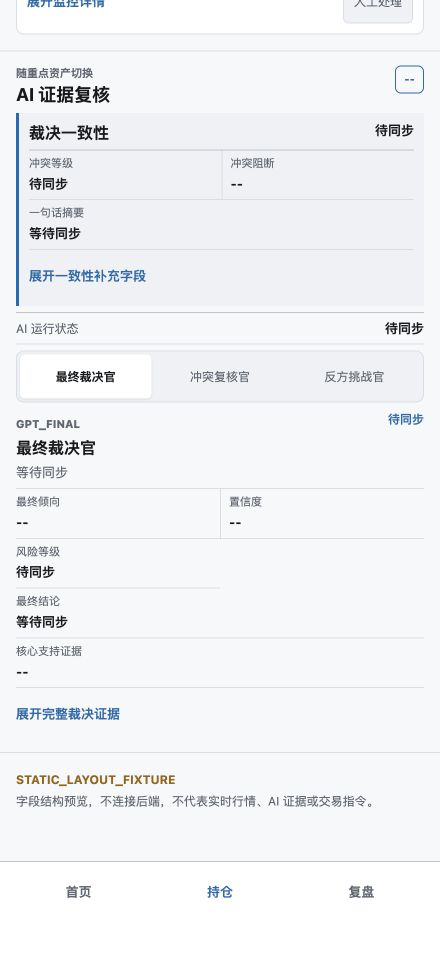
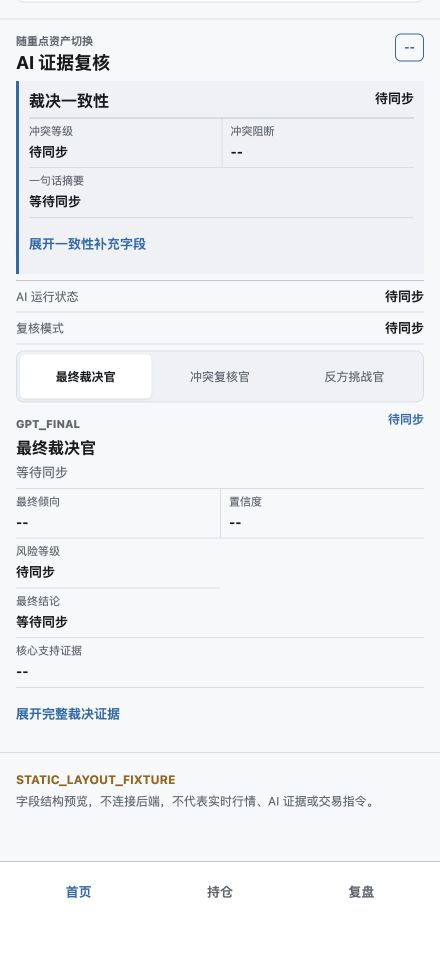
fix(design): close PR 1135 review blockers

diff --git a/docs/design/p3-u2-iphone-home-ia-v2/interaction.js b/docs/design/p3-u2-iphone-home-ia-v2/interaction.js
@@ -31,7 +31,7 @@
 
   let selectedAssetIndex = 0;
   let activeRole = "gpt";
-  const initialPositionMarkup = positionSection ? positionSection.innerHTML : "";
+  let initialPositionMarkup = "";
   const captureUsesSafeEmptyState = params.get("capture") === "1";
 
   const fixtureFallback = (fieldPath) => {
@@ -69,6 +69,15 @@
       textNode.parentElement?.setAttribute("data-field-token", fieldPaths.join(","));
       textNode.nodeValue = source.replace(tokenPattern, (_token, fieldPath) => fixtureFallback(fieldPath));
     });
+  };
+
+  const validateCaptureSafeEmptyState = () => {
+    if (!captureUsesSafeEmptyState || !positionSection) {
+      return;
+    }
+    if (/\{[^{}]+\}/.test(positionSection.textContent || "")) {
+      throw new Error("Capture-mode position safe-empty normalization failed");
+    }
   };
 
   const setPressed = (selector, value, attribute) => {
@@ -256,6 +265,8 @@
     document.body.classList.add("capture-mode");
   }
   applyCaptureSafeEmptyState();
+  validateCaptureSafeEmptyState();
+  initialPositionMarkup = positionSection ? positionSection.innerHTML : "";
   applyDevice(normalized("device", "17pm"));
   applyTheme(normalized("theme", "light"));
   applyTextSize(normalized("text", "standard"));

diff --git a/docs/design/p3-u2-iphone-home-ia-v2/index.html b/docs/design/p3-u2-iphone-home-ia-v2/index.html
@@ -381,6 +381,10 @@
             <span>AI 运行状态</span>
             <strong>{aiDecision.runStatusLabel}</strong>
           </div>
+          <div class="ai-run-state ai-decision-mode">
+            <span>复核模式</span>
+            <strong>{aiDecision.decisionModeLabel}</strong>
+          </div>
 
           <div class="role-tabs" role="tablist" aria-label="AI 角色">
             <button type="button" role="tab" id="role-tab-gpt" aria-selected="true" aria-controls="role-panel-gpt" data-role="gpt">最终裁决官</button>

diff --git a/docs/design/p3-u2-iphone-home-ia-v2/styles.css b/docs/design/p3-u2-iphone-home-ia-v2/styles.css
@@ -787,6 +787,11 @@ details p {
   margin-top: 6px;
 }
 
+.ai-decision-mode {
+  margin-top: 0;
+  border-top: 0;
+}
+
 .role-tabs {
   display: grid;
   grid-template-columns: repeat(3, minmax(0, 1fr));

diff --git a/src/test/java/org/example/trademodel/dashboard/P3U2IPhoneHomePrototypeContractTest.java b/src/test/java/org/example/trademodel/dashboard/P3U2IPhoneHomePrototypeContractTest.java
@@ -1,0 +1,76 @@
+package org.example.trademodel.dashboard;
+
+import org.junit.jupiter.api.Test;
+
+import java.io.IOException;
+import java.nio.file.Files;
+import java.nio.file.Path;
+
+import static org.assertj.core.api.Assertions.assertThat;
+
+class P3U2IPhoneHomePrototypeContractTest {
+
+    private static final Path PROTOTYPE_DIR =
+            Path.of("docs/design/p3-u2-iphone-home-ia-v2");
+
+    @Test
+    void captureModeNormalizesAndValidatesPositionBeforeBaseline() throws IOException {
+        String script = Files.readString(PROTOTYPE_DIR.resolve("interaction.js"));
+
+        int declaration = script.indexOf("let initialPositionMarkup = \"\";");
+        int normalization = script.indexOf("  applyCaptureSafeEmptyState();");
+        int validation = script.indexOf("  validateCaptureSafeEmptyState();");
+        int baseline = script.indexOf(
+                "  initialPositionMarkup = positionSection ? positionSection.innerHTML : \"\";");
+
+        assertThat(declaration).isGreaterThanOrEqualTo(0);
+        assertThat(normalization).isGreaterThan(declaration);
+        assertThat(validation).isGreaterThan(normalization);
+        assertThat(baseline).isGreaterThan(validation);
+        assertThat(script).doesNotContain(
+                "const initialPositionMarkup = positionSection ? positionSection.innerHTML : \"\";");
+    }
+
+    @Test
+    void captureModeProvidesAValidatedFailClosedPositionState() throws IOException {
+        String html = Files.readString(PROTOTYPE_DIR.resolve("index.html"));
+        String script = Files.readString(PROTOTYPE_DIR.resolve("interaction.js"));
+        String positionSection = section(html, "<section class=\"position-section\"", "</section>");
+
+        assertThat(positionSection)
+                .contains("data-position-independent")
+                .contains("{positions[0].symbol}")
+                .contains("{positions[0].entryPrice}");
+        assertThat(script)
+                .contains("const validateCaptureSafeEmptyState = () => {")
+                .contains("positionSection.textContent || \"\"")
+                .contains("Capture-mode position safe-empty normalization failed")
+                .contains("textNode.nodeValue = source.replace(tokenPattern,"
+                        + " (_token, fieldPath) => fixtureFallback(fieldPath));");
+    }
+
+    @Test
+    void aiDecisionModeIsRenderedInTheHeaderWithFailClosedFallback() throws IOException {
+        String html = Files.readString(PROTOTYPE_DIR.resolve("index.html"));
+        String script = Files.readString(PROTOTYPE_DIR.resolve("interaction.js"));
+        String aiHeader = section(html, "<section class=\"ai-section\"", "<div class=\"role-tabs\"");
+
+        assertThat(aiHeader)
+                .contains("<span>AI 运行状态</span>")
+                .contains("{aiDecision.runStatusLabel}")
+                .contains("<span>复核模式</span>")
+                .contains("{aiDecision.decisionModeLabel}");
+        assertThat(script)
+                .contains("status|state|level|label|direction|stance|risk|quality|mode")
+                .contains("return \"待同步\";");
+    }
+
+    private static String section(String source, String startMarker, String endMarker) {
+        int start = source.indexOf(startMarker);
+        int end = source.indexOf(endMarker, start);
+
+        assertThat(start).isGreaterThanOrEqualTo(0);
+        assertThat(end).isGreaterThan(start);
+        return source.substring(start, end);
+    }
+}

diff --git a/docs/design/P3_U2_IPHONE_HOME_IA_V2.md b/docs/design/P3_U2_IPHONE_HOME_IA_V2.md
@@ -241,7 +241,7 @@ each exact binding in `data-field-token`; it does not use whole-page scaling.
 | Watch-asset height | `204.4pt` | `204.4pt` | `204.4pt` | `204.4pt` |
 | Execution default height | `234.4pt` | `234.4pt` | `234.4pt` | `234.4pt` |
 | Position default height | `865.2pt` | `865.2pt` | `610.1pt` | `610.1pt` |
-| AI default height | `701.5pt` | `701.5pt` | `701.5pt` | `701.5pt` |
+| AI default height | `733.4pt` | `733.4pt` | `733.4pt` | `733.4pt` |
 | Execution top Y | `563.0pt` | `563.0pt` | `630.6pt` | `630.6pt` |
 | Bottom-nav top Y | `861.0pt` | `861.0pt` | `831.0pt` | `831.0pt` |
 | Execution core above nav | `YES` | `YES` | `YES` | `YES` |
